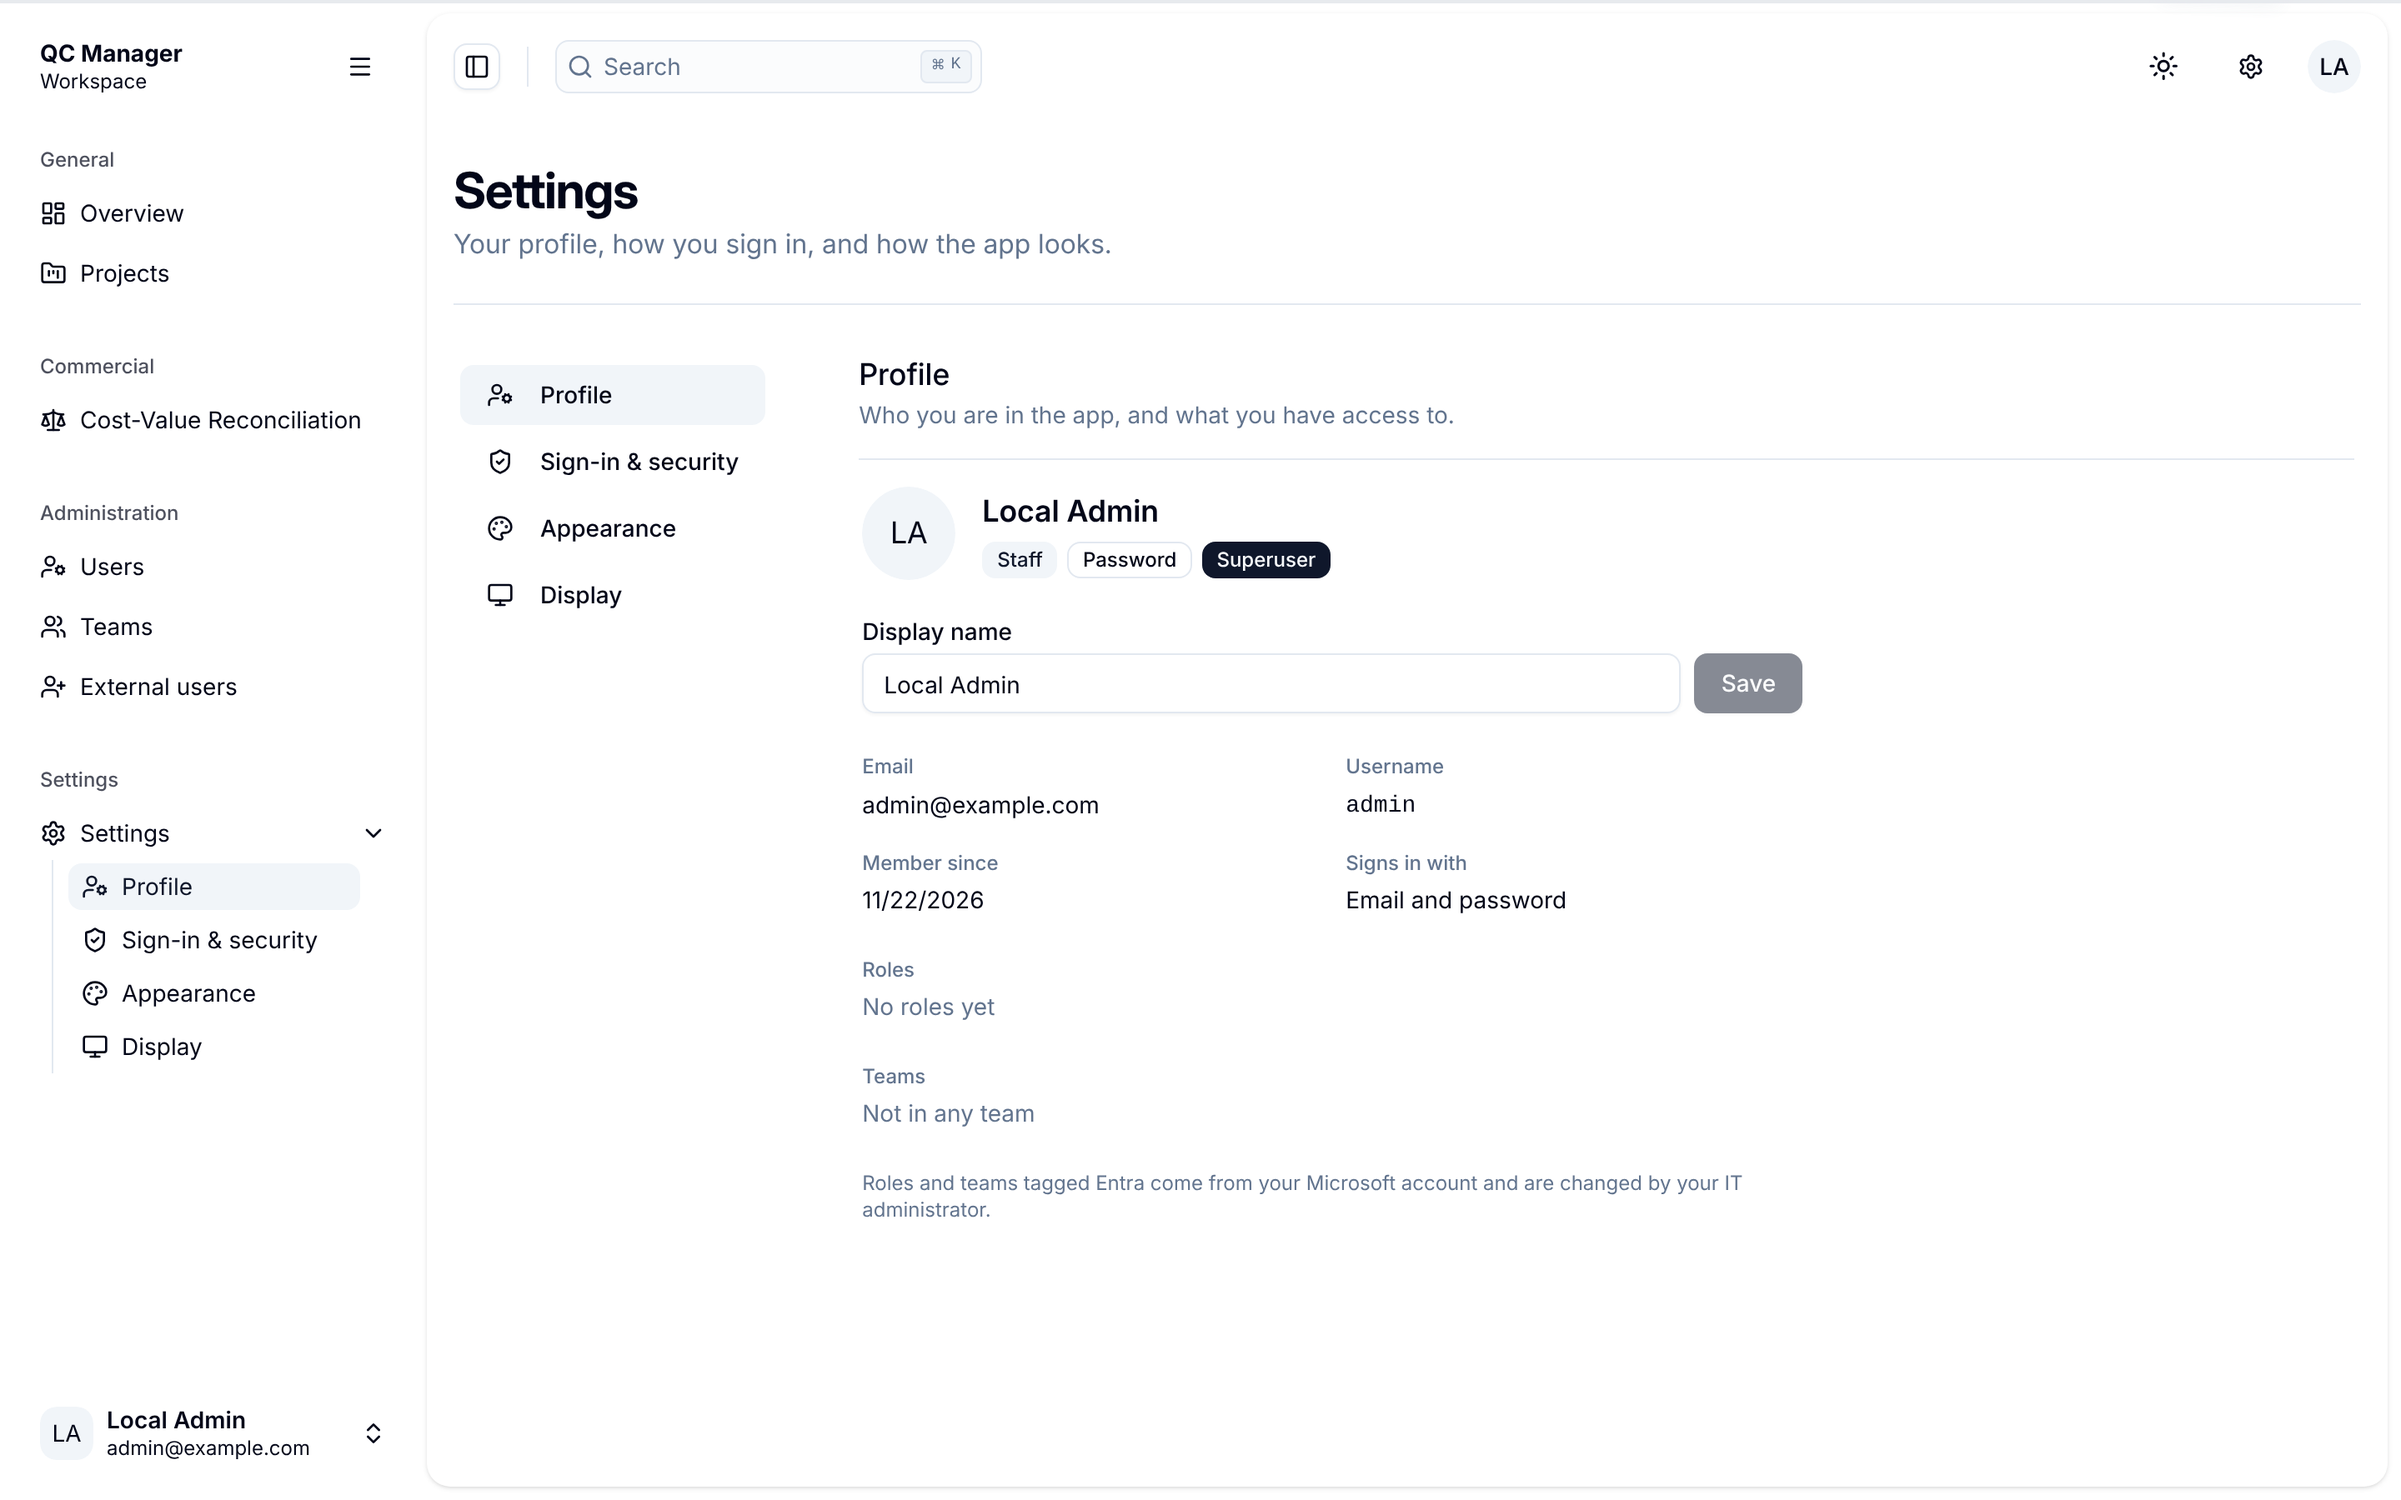
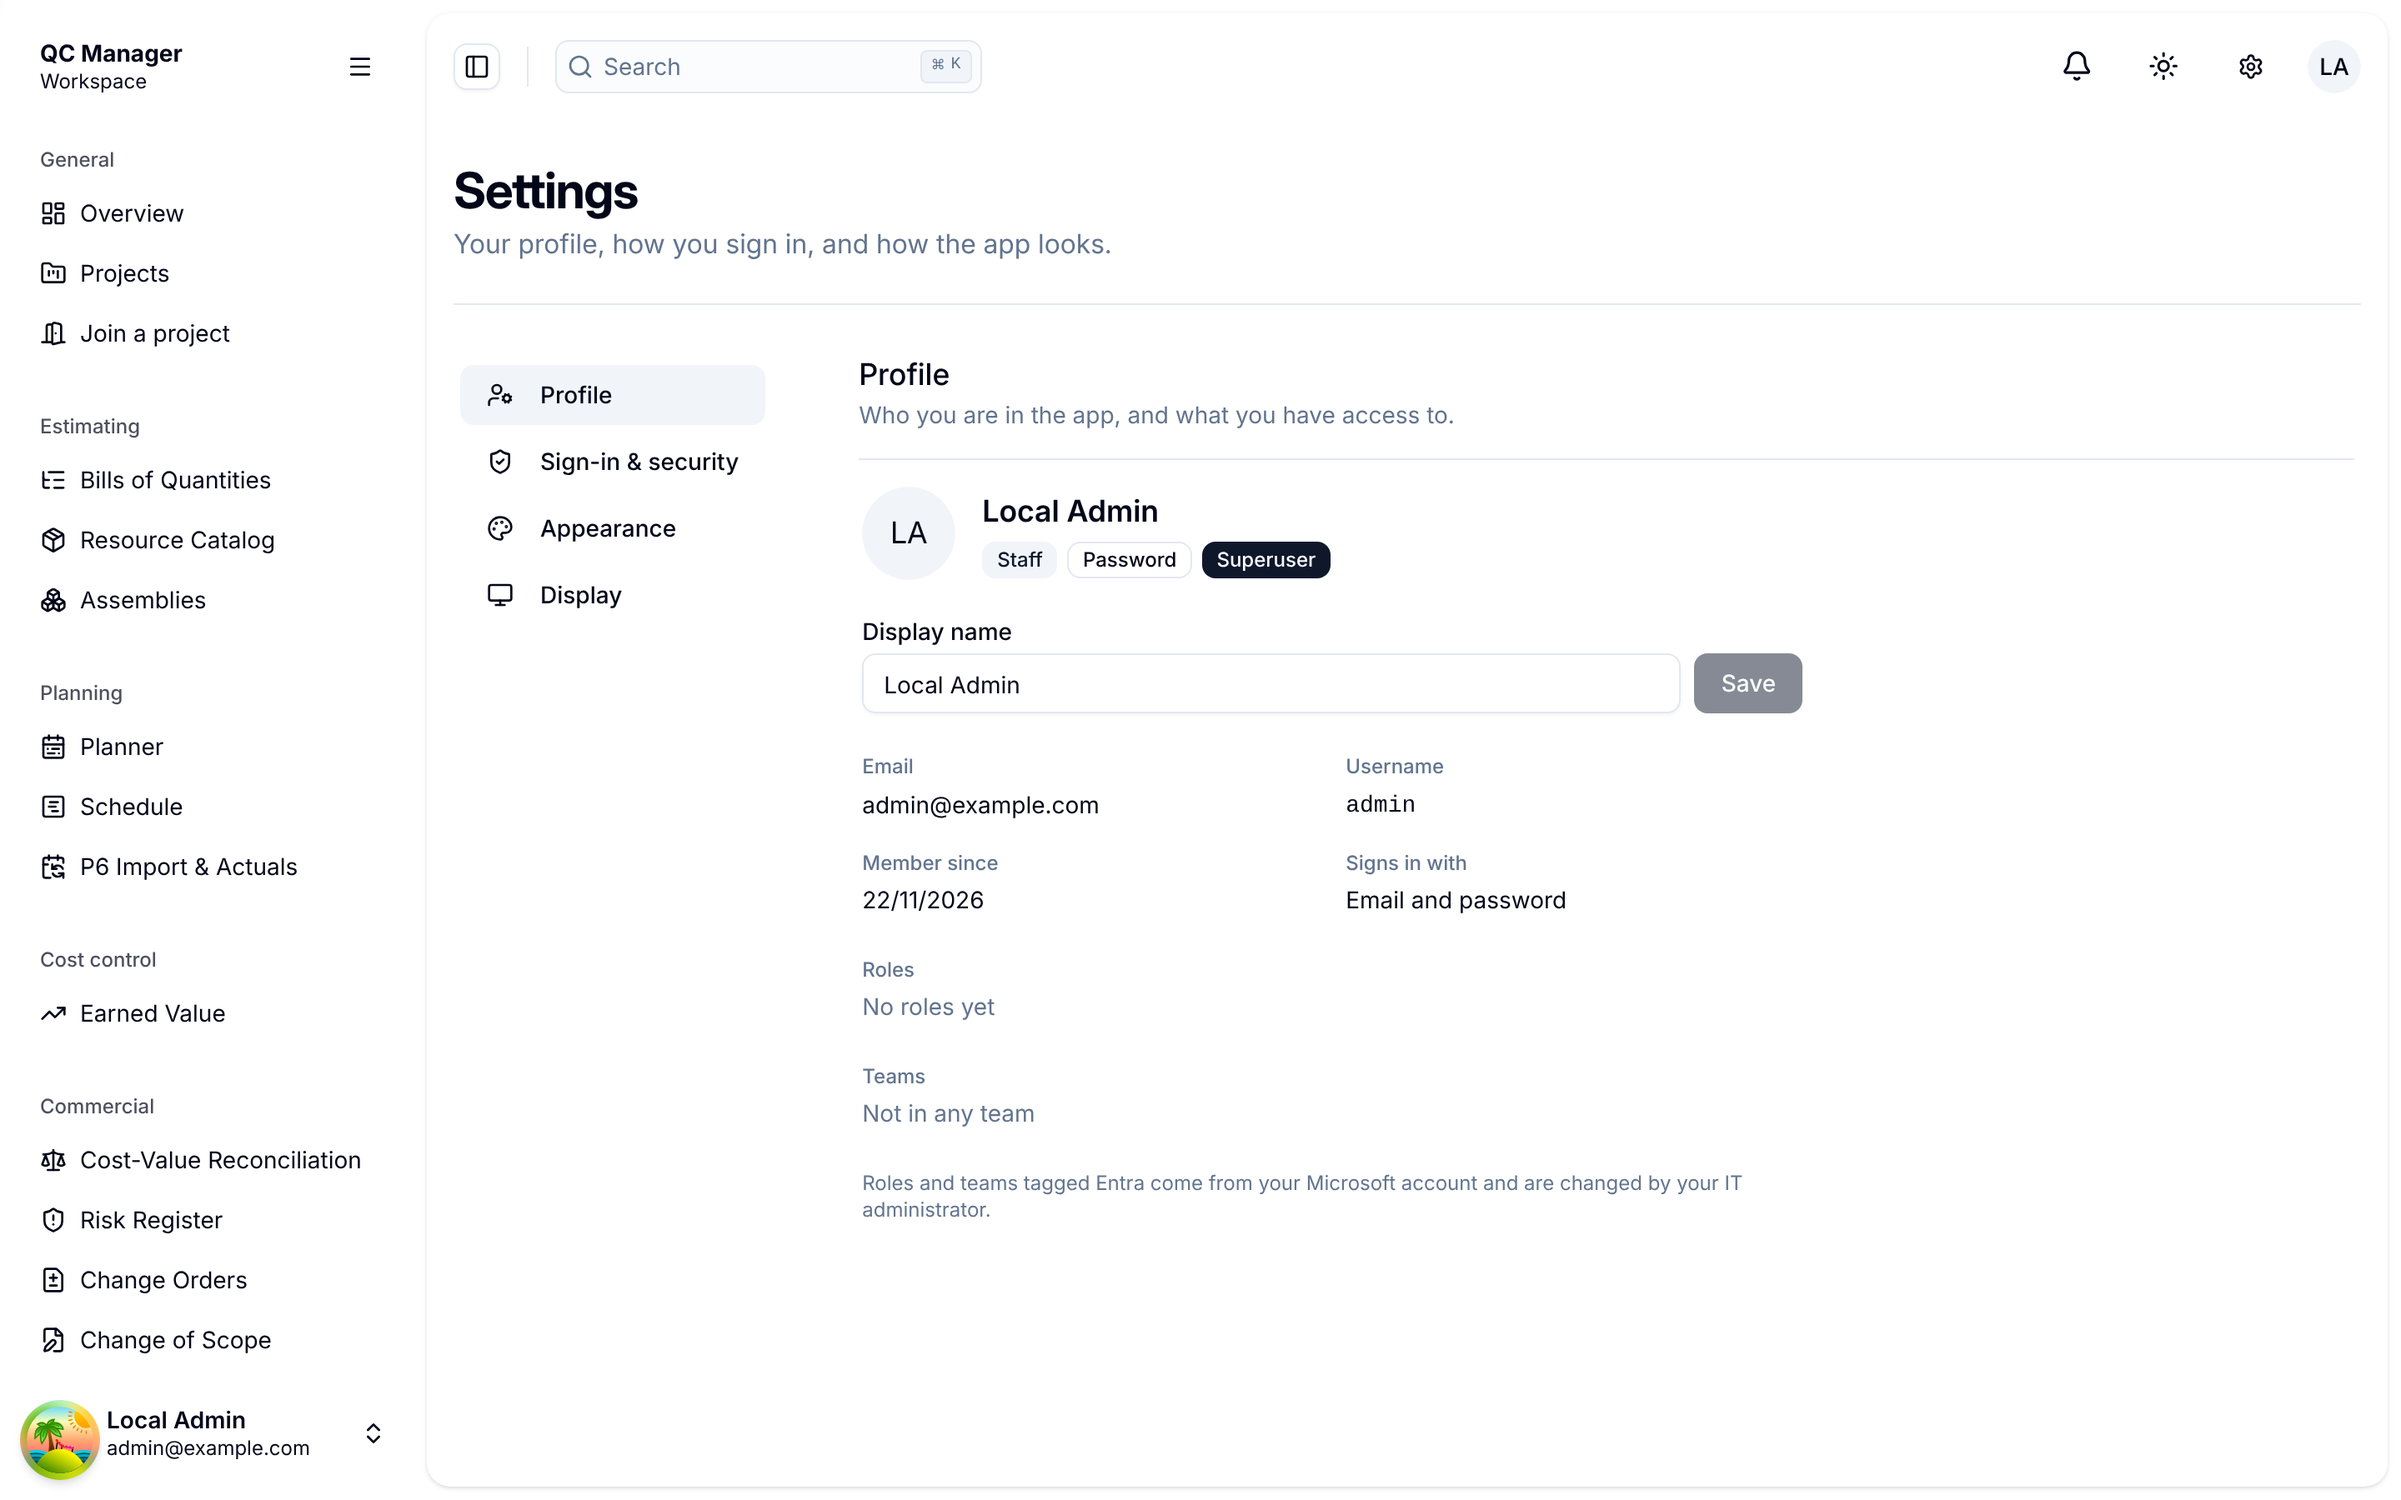
Refresh screenshots for every module and page; README module list and gallery
Claude-Session: https://claude.ai/code/session_016Dz1eJY1BpCUB1JFMNVvHQ

diff --git a/README.md b/README.md
@@ -39,7 +39,31 @@ cd ../frontend && pnpm install && pnpm dev                                 # app
 
 Sign in at http://localhost:5173 with the `ADMIN_*` credentials, or with Microsoft once [Entra is set up](docs/entra-setup.md).
 
-Screenshots of the users manager, teams, and settings pages are in [docs/screenshots](docs/screenshots).
+
+## Screenshots
+
+Demo project P-24017 (LNG Train 3 Insulation). Full-size images are in [docs/screenshots](docs/screenshots).
+
+| | |
+|---|---|
+| ![Asset hierarchy: Site / Area / Asset / RSW with work anchors](docs/screenshots/asset-tree.png)<br>Asset hierarchy: Site / Area / Asset / RSW with work anchors | ![Spreadsheet import with column mapping](docs/screenshots/asset-import.png)<br>Spreadsheet import with column mapping |
+| ![Punch list, Cat A/B/C](docs/screenshots/issues-punch.png)<br>Punch list, Cat A/B/C | ![NCR workflow: containment to close](docs/screenshots/issues-ncr.png)<br>NCR workflow: containment to close |
+| ![ITP with Hold/Witness points](docs/screenshots/itp.png)<br>ITP with Hold/Witness points | ![Inspection request with witness parties](docs/screenshots/inspection-requests.png)<br>Inspection request with witness parties |
+| ![Inspection register](docs/screenshots/inspections.png)<br>Inspection register | ![Welding and NDE](docs/screenshots/welding.png)<br>Welding and NDE |
+| ![Heats, mill certificates and holds](docs/screenshots/materials.png)<br>Heats, mill certificates and holds | ![Calibration register](docs/screenshots/calibration.png)<br>Calibration register |
+| ![Scaffolds with tags](docs/screenshots/scaffolds.png)<br>Scaffolds with tags | ![Coating hold points, dew point, DFT](docs/screenshots/coatings.png)<br>Coating hold points, dew point, DFT |
+| ![Planner look-ahead board](docs/screenshots/planner-board.png)<br>Planner look-ahead board | ![Daily workface log](docs/screenshots/workface-log.png)<br>Daily workface log |
+| ![Shift handover](docs/screenshots/handover.png)<br>Shift handover | ![P6 import preview](docs/screenshots/p6-import.png)<br>P6 import preview |
+| ![Gantt with critical path](docs/screenshots/schedule-gantt.png)<br>Gantt with critical path | ![Earned value (hours)](docs/screenshots/evm.png)<br>Earned value (hours) |
+| ![Change of scope cards](docs/screenshots/change-of-scope.png)<br>Change of scope cards | ![Progress claim](docs/screenshots/claims.png)<br>Progress claim |
+| ![MDR dossier, compiled draft](docs/screenshots/mdr.png)<br>MDR dossier, compiled draft | ![Numbering schemes](docs/screenshots/numbering.png)<br>Numbering schemes |
+| ![Audit ledger](docs/screenshots/audit.png)<br>Audit ledger | ![KPI dashboard](docs/screenshots/dashboard.png)<br>KPI dashboard |
+| ![RFIs](docs/screenshots/rfi.png)<br>RFIs | ![Task board](docs/screenshots/tasks-board.png)<br>Task board |
+| ![Contacts](docs/screenshots/contacts.png)<br>Contacts | ![Client plan review](docs/screenshots/plan-reviews.png)<br>Client plan review |
+| ![Project access and invites](docs/screenshots/lobby.png)<br>Project access and invites | ![Module switches](docs/screenshots/modules-settings.png)<br>Module switches |
+| ![Users](docs/screenshots/users.png)<br>Users | ![User detail](docs/screenshots/users-detail.png)<br>User detail |
+| ![App-managed team](docs/screenshots/teams-manual.png)<br>App-managed team | ![Entra-linked team](docs/screenshots/teams-entra.png)<br>Entra-linked team |
+| ![Profile](docs/screenshots/settings-profile.png)<br>Profile | ![Security](docs/screenshots/settings-security.png)<br>Security |
 
 ## Sign-in
 
@@ -67,12 +91,18 @@ python scripts/new_module.py punch_list --display "Punch List" --depends project
 
 Read **[docs/modules.md](docs/modules.md)** before writing one. Shipped modules:
 
-| Module | What it does |
+Platform modules (always on): `projects`, `team`, `people`, `platform` (module switches, per-user access matrix, roles, onboarding), `portal` (external users, client plan review), `files`, `comments`, `notifications`, `audit` (hash-chained audit ledger), `saved_views`, `numbering`, `lobby` (request or be invited to a project).
+
+| Area | Modules |
 |---|---|
-| `team` | Teams, memberships, Entra group and app-role sync |
-| `portal` | Invitations and management of external users |
-| `projects` | Projects, and which client team may see each |
-| `cvr` | Cost-Value Reconciliation: editable cost-head grid, margins, totals, CSV export, cashflow chart |
+| Asset breakdown | `asset_tree` (Site → Area → Asset → RSW → Item, work anchors, packs, terminology, spreadsheet import with mapping profiles, scan tags), `assets` (asset register, COBie) |
+| Quality | `inspections` (checklists and ITPs with Hold/Witness points, inspection requests, sign-off and client co-sign, competencies), `ncr` (punch list Cat A/B/C and NCR workflow, client visibility), `welding` (WPS/PQR, welder qualifications, NDE sampling and repairs, bolted joints), `materials` (heats, mill certs, PMI, holds, traceability), `calibration` (equipment, certificates, calibration gate), `coatings` (hold points, dew point, DFT), `submittals`, `markups` |
+| Turnover | `mdr` (dossier builder: scope, section providers, readiness gate, compiled and signed revisions), `cde` (ISO 19650), `transmittals`, `correspondence` |
+| Field and planning | `planner` (work plans, work packs, crews, readiness), `workface_log` (daily log, hours by work anchor, sign-off), `handover` (shift handover), `scaffolds` (requests, tags, inspections, hire), `safety`, `tasks` (Kanban), `meetings`, `rfi`, `contacts` |
+| Schedule and cost | `schedule` (Gantt, CPM, Monte Carlo, P6 import with RSW matching, verified progress, export back to P6), `evm` (hours-based earned value, pulls actual hours from signed workface logs), `cvr`, `boq`, `change_orders`, `change_of_scope`, `claims` (progress claims from verified completion), `procurement`, `risk` |
+| Reporting | `reporting` (KPIs, pivots, charts, scheduled reports), `data_exchange` (import/export hub) |
+
+The site-execution modules (asset hierarchy, ITP, issues, welding, materials, calibration, MDR, planner, workface log, handover, P6 matching, claims, scaffolds, coatings, lobby) follow the KERP specification, adapted to this codebase: integer ids, project visibility instead of row-level security, permissions instead of personas, plain Python checks instead of a rule engine. Offline/PWA capture, the Android app, CEL rules and AI features are not built.
 
 ## Repository layout
 
